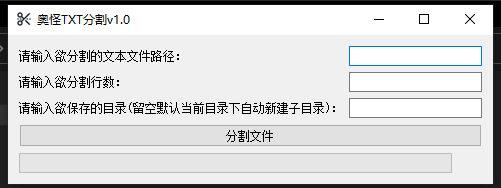
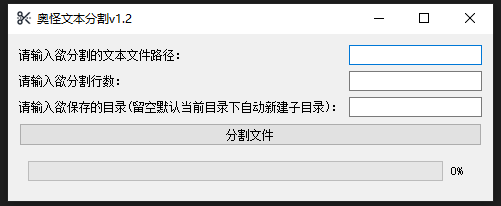
release: release Version 1.0.3-20240122

diff --git a/src/GUI.py b/src/GUI.py
@@ -54,7 +54,7 @@ class SplitFileGUI(QWidget):
         self.setWindowIcon(QIcon(pixmap))
 
         # 设置窗口属性
-        self.setWindowTitle('奥怪文本分割v1.1')
+        self.setWindowTitle('奥怪文本分割v1.2')
         self.show()
 
     def handle_events(self, code, data=None):

diff --git a/README.md b/README.md
@@ -74,6 +74,35 @@ python GUI.py
 同时你可以通过查看 [CONTRIBUTING.md](https://github.com/aoguai/SplitFiles/blob/master/docs/CONTRIBUTING.md)
 了解如何贡献您的代码。
 
+## 开发规划
+
+### 规划
+
+功能规划
+
+- [ ] 支持 批量切割文件
+- [ ] 支持 更多文件编码格式
+- [ ] 支持 更多类型文件切割
+- [ ] 支持 限制切割文件大小
+
+### 更新日志
+
+- **2023/01/22 SplitFilesV1.2.0 版本更新**
+  - 更新 README
+  - **支持 切割 csv 类型文件**
+  - 重构 代码结构，使代码更加规范
+  - 修复 分割大文件时拖动UI卡顿问题
+  - 修复 阻塞主线程BUG,异步化切割线程
+
+<details> 
+    <summary>往期更新日志</summary>
+
+- **2023/01/08 SplitFilesV1.1.0 版本更新**
+  - 支持 拖拽文件导入路径
+- **2023/01/07 SplitFilesV1.0.0 版本更新**
+  - 项目 创建
+</details>
+
 ## License 说明
 
 [SplitFiles](https://github.com/aoguai/SplitFiles) 遵循 [MIT license](LICENSE)。
